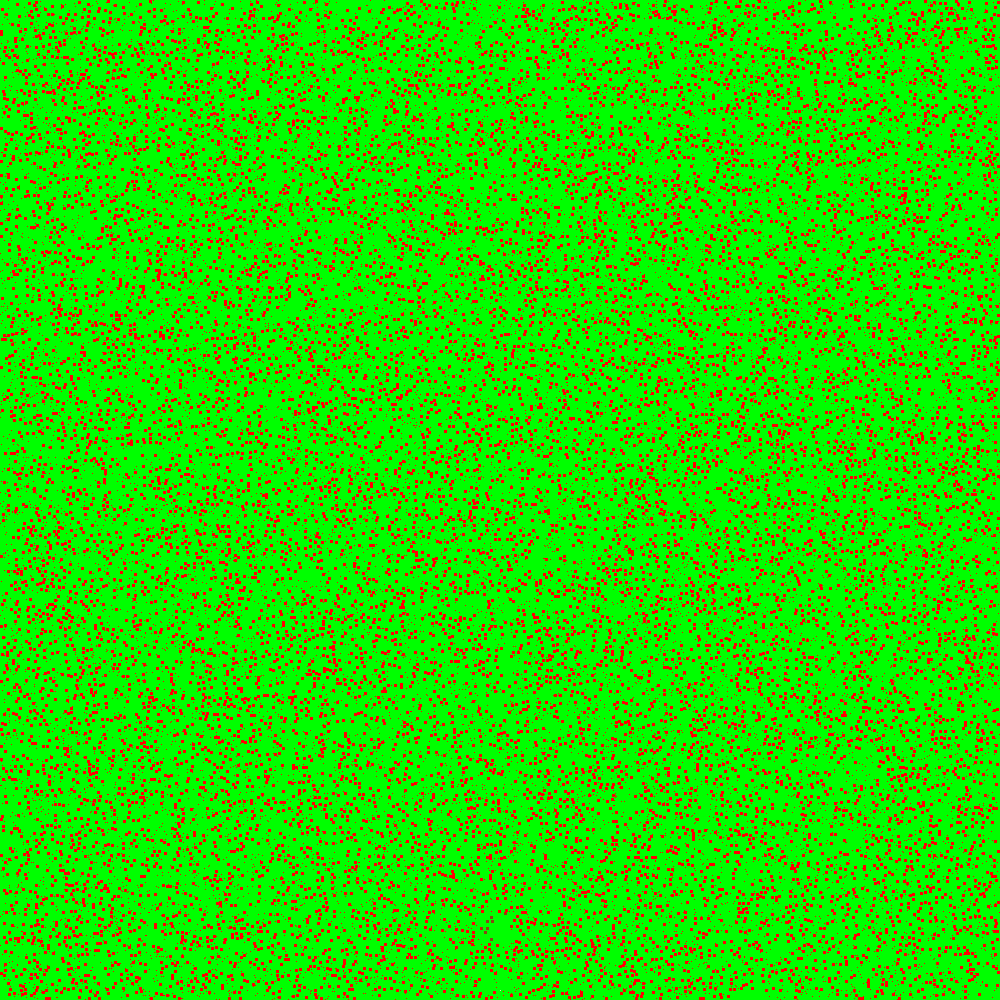
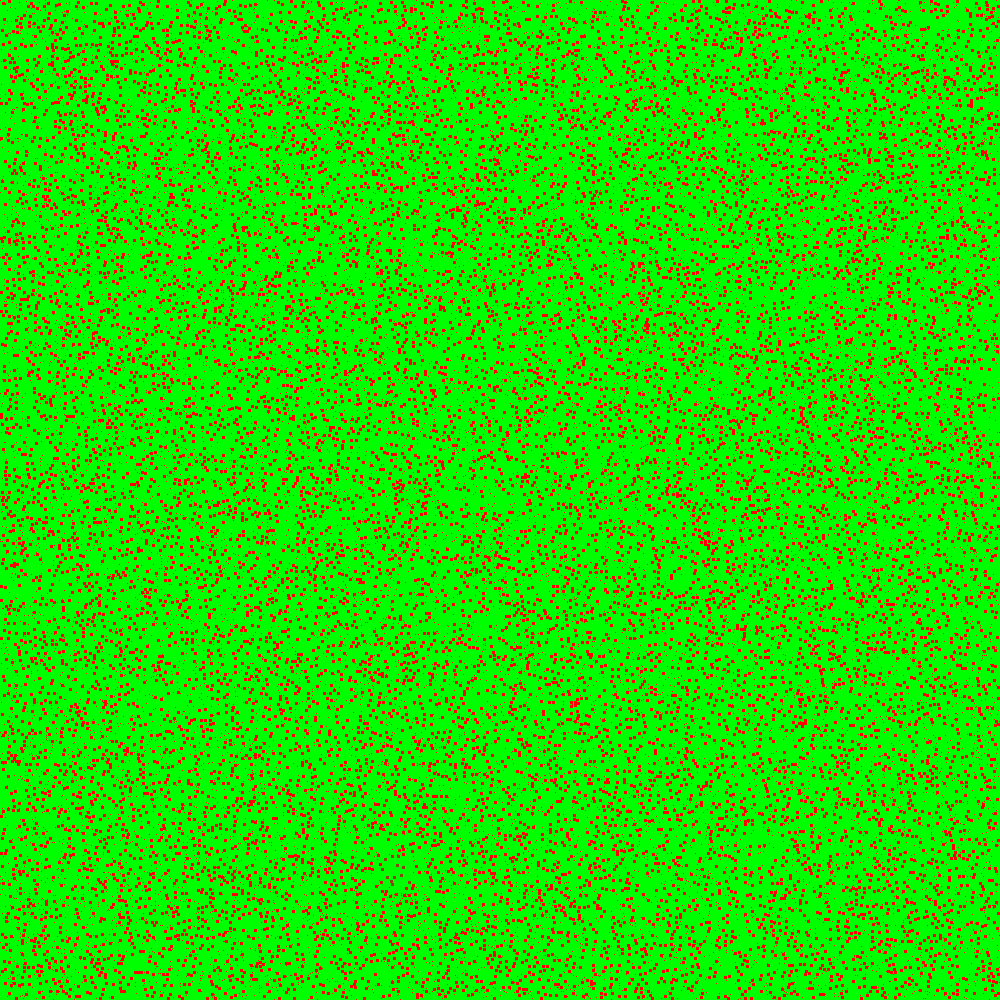
imported map texture into game

Changed region(s): [[0.0, 0.0, 1.0, 1.0]]

diff --git a/worldGenerationFunctions.py b/worldGenerationFunctions.py
@@ -41,14 +41,14 @@ class GameScreen:
         # initialize the player controller
         self.player=FirstPersonController(
         mouse_sensitivity=Vec2(100, 100), # Mouse sensitivity
-        position=(self.player_spawn_x, 5, self.player_spawn_z), # Player spawn position
+        position=(self.player_spawn_x, 7, self.player_spawn_z), # Player spawn position
         speed=self.player_speed # Player movement speed
         )
 
         self.MiniMap = Entity(
             parent=camera.ui,
             model='quad',
-            color=color.black,
+            texture = minimap_texture.get("minimap"),
             position=(0.6, 0.35),
             scale=(0.3, 0.3)
         )

diff --git a/textures.py b/textures.py
@@ -25,3 +25,5 @@ mob_textures = {
     "skeleton" : load_texture("minecraft_starter/assets/textures/skeleton.png"),
     # Add other mob textures if needed
 }
+
+minimap_texture = {"minimap" : load_texture("minecraft_starter/assets/textures/minimap.png")}
